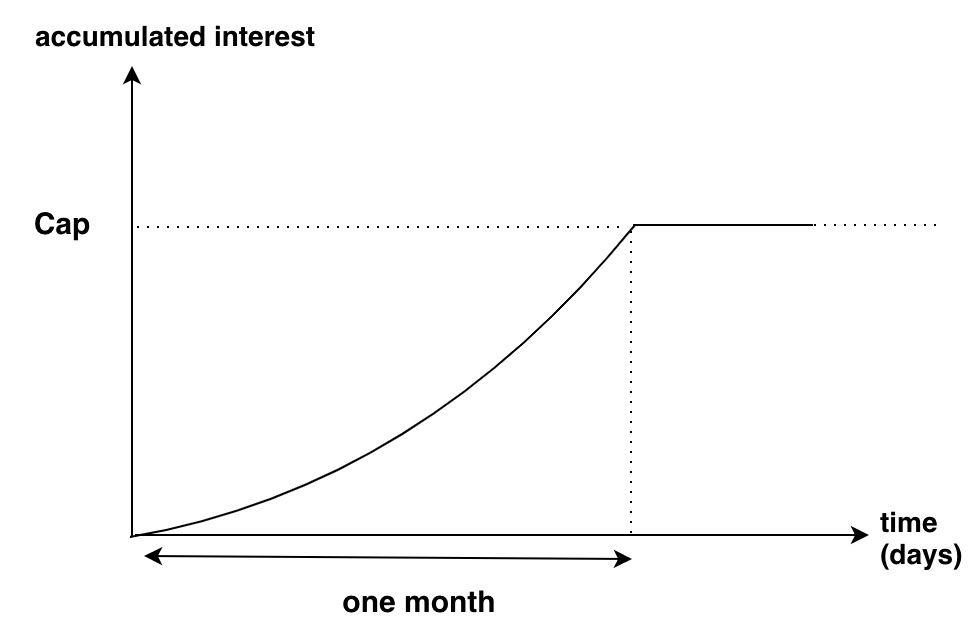
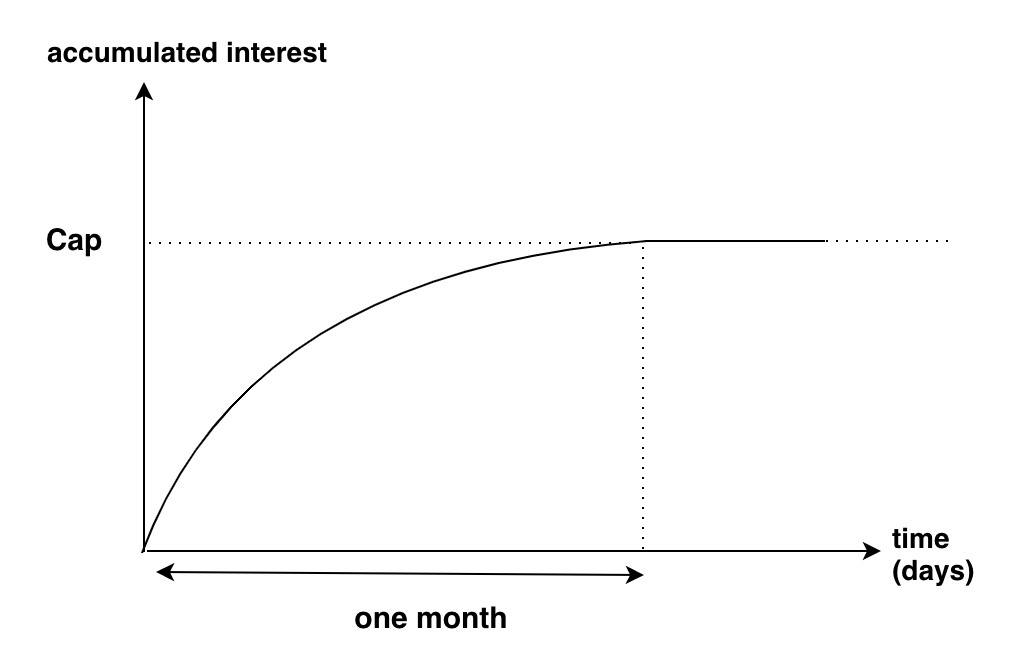
update short selling

diff --git a/2-signaling-mechanism/2-shot-sell-bc/README.md b/2-signaling-mechanism/2-shot-sell-bc/README.md
@@ -86,9 +86,10 @@ The key problems & our proposed solution:
 	* the loan of bonded tokens will be transferred to new lenders;
 	* if there is no new lender available, Broker forces to close the short position and return the bonded tokens to the lender.
 * **Question 3**: the calculation of interest for lending:
-	* it can depends on the duration of lending period (e.g., accumulated daily);
-	* there is a cap that is the maximum amount of accumulated interest;
-	* lender is not eligible for interest if he requests to withdraw lended tokens before the interest cap is reached. (In this case Broker contract pockets the interest and make money! :)
+	* The interest cost of short selling in the stock market is calculated based on dynamic stock price and accumulated over time. 
+	* However, it is very expensive to do the same in Bonding Curves due to frequent token price updates and on-chain computations.
+	* Instead, our design calculates the interest based on the lending period and accumulated in the lending time window. Note that the accumulated interest increases faster at the beginning and the growth slows down over time. It encourages more lenders to participate in lending. 
+	* In addition, we set a cap for the total interest that a short seller needs to pay for the borrowed bonded tokens from the same lender. Once the interest hits the cap, the lender can choose to withdraw and transfer the loan of bonded tokens to a new lender. Therefore, the interest is reset to be zero for the new lender and computation starts over.
 
 <img src="img/interest_curve.jpg" width=450 />
 
